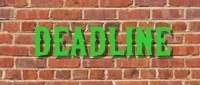
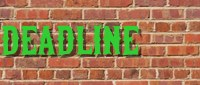
update images

Changed region(s): [[0.0, 0.2824, 0.87, 0.7059]]

diff --git a/css/style.css b/css/style.css
@@ -10,7 +10,7 @@
     height: 10vh;
     width: 10vh;
     border-radius: 30%;
-    background-image: url("../images/v5.jpg");
+    background-image: url("../images/myself.jpg");
 }
 
 .deadline {
@@ -19,5 +19,5 @@
     height: 10vh;
     width: 20vh;
     border-radius: 12%;
-    background-image: url("../images/bricks.jpg");
+    background-image: url("../images/deadline.jpg");
 }
